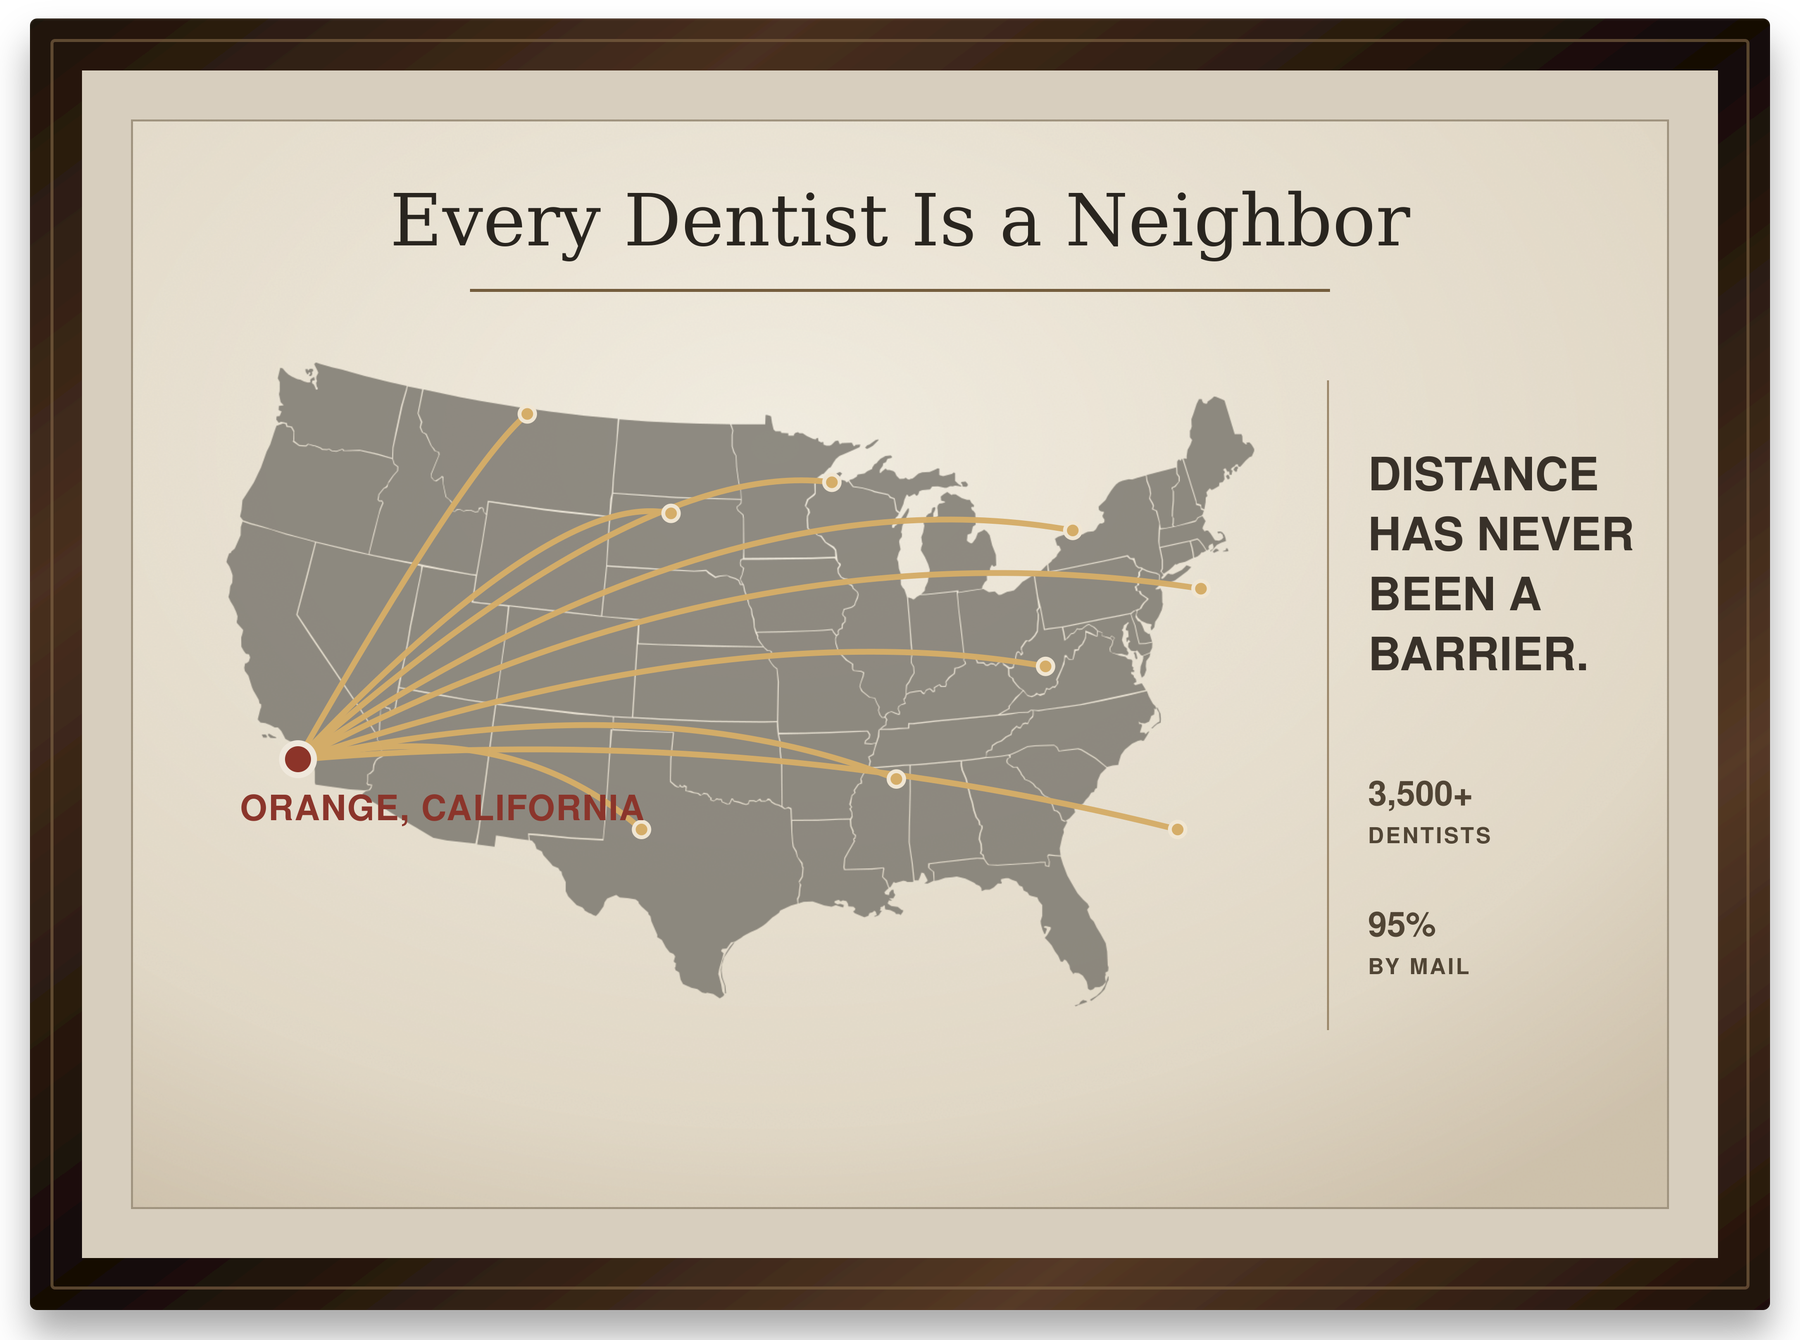
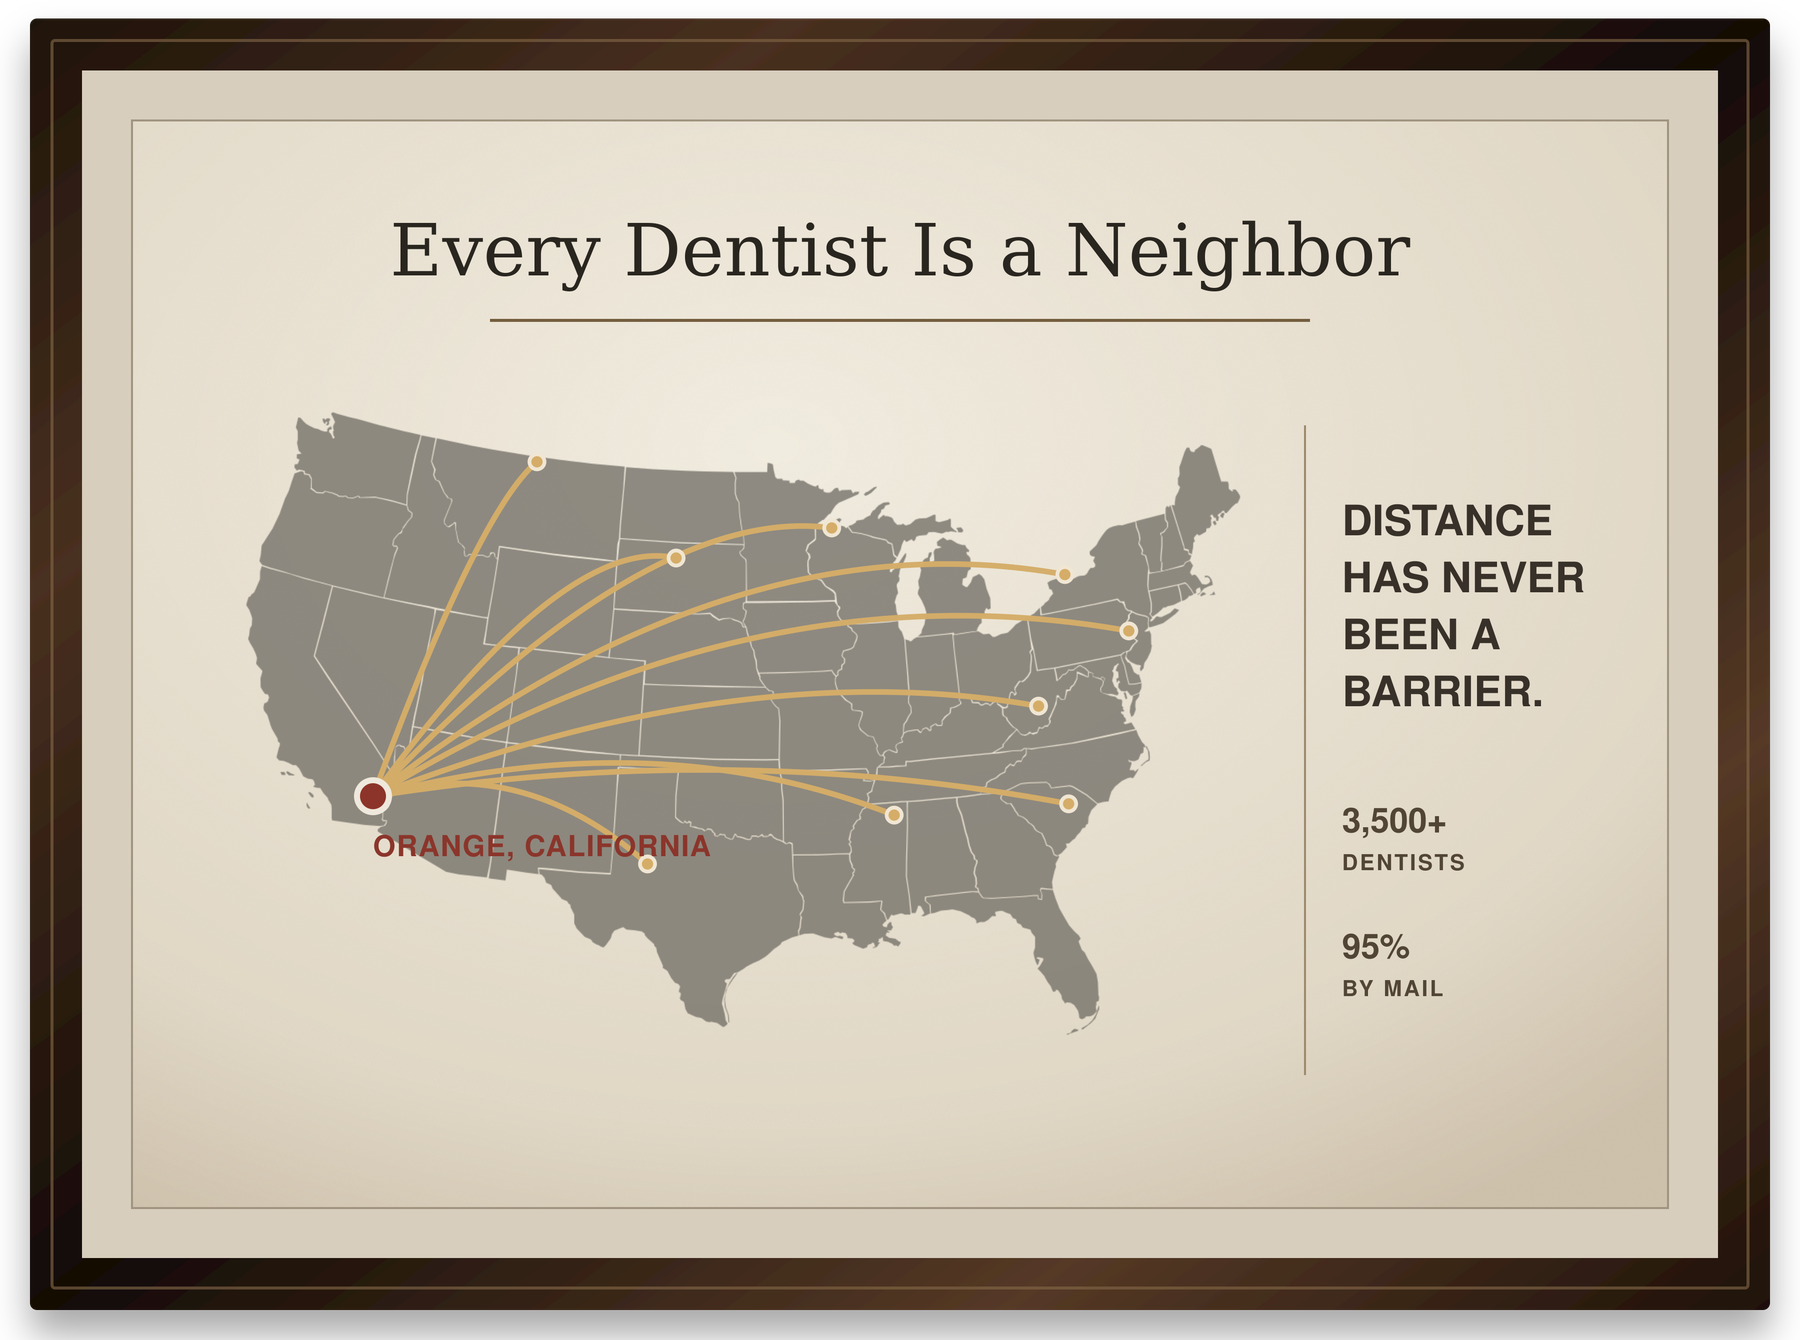
Expo 1989: постер — версия 1989-museum-poster-horizontal-v7.
Эльдар (23.10.2026): «1989-museum-poster-horizontal-v7». Тот же размер и место.

diff --git a/expo/expo.html b/expo/expo.html
@@ -11592,7 +11592,8 @@ function drawRec3(t){
   const PP = PROP_SPRITES.ph_poster89;
   if (PP){
     /* 23.10.2026, позже: постер стал горизонтальным (usmap.png из артефактов,
-       «там горизонтальный постер — меняй»): 1800 × 1341, ширина 860 */
+       «там горизонтальный постер — меняй»): 1800 × 1341, ширина 860;
+       затем версия 1989-museum-poster-horizontal-v7 того же размера */
     const pw = 860 * kM * SS, ph = pw * PP.h / PP.w;
     const top = py(83, kM);   // 128 → 83: на 45 выше («карту чуть поднимем», 23.10.2026)
     pushHit(cx - pw/2, top, pw, ph, {type:'study', beat: BEATS.findIndex(b => b.y === '1989')});
